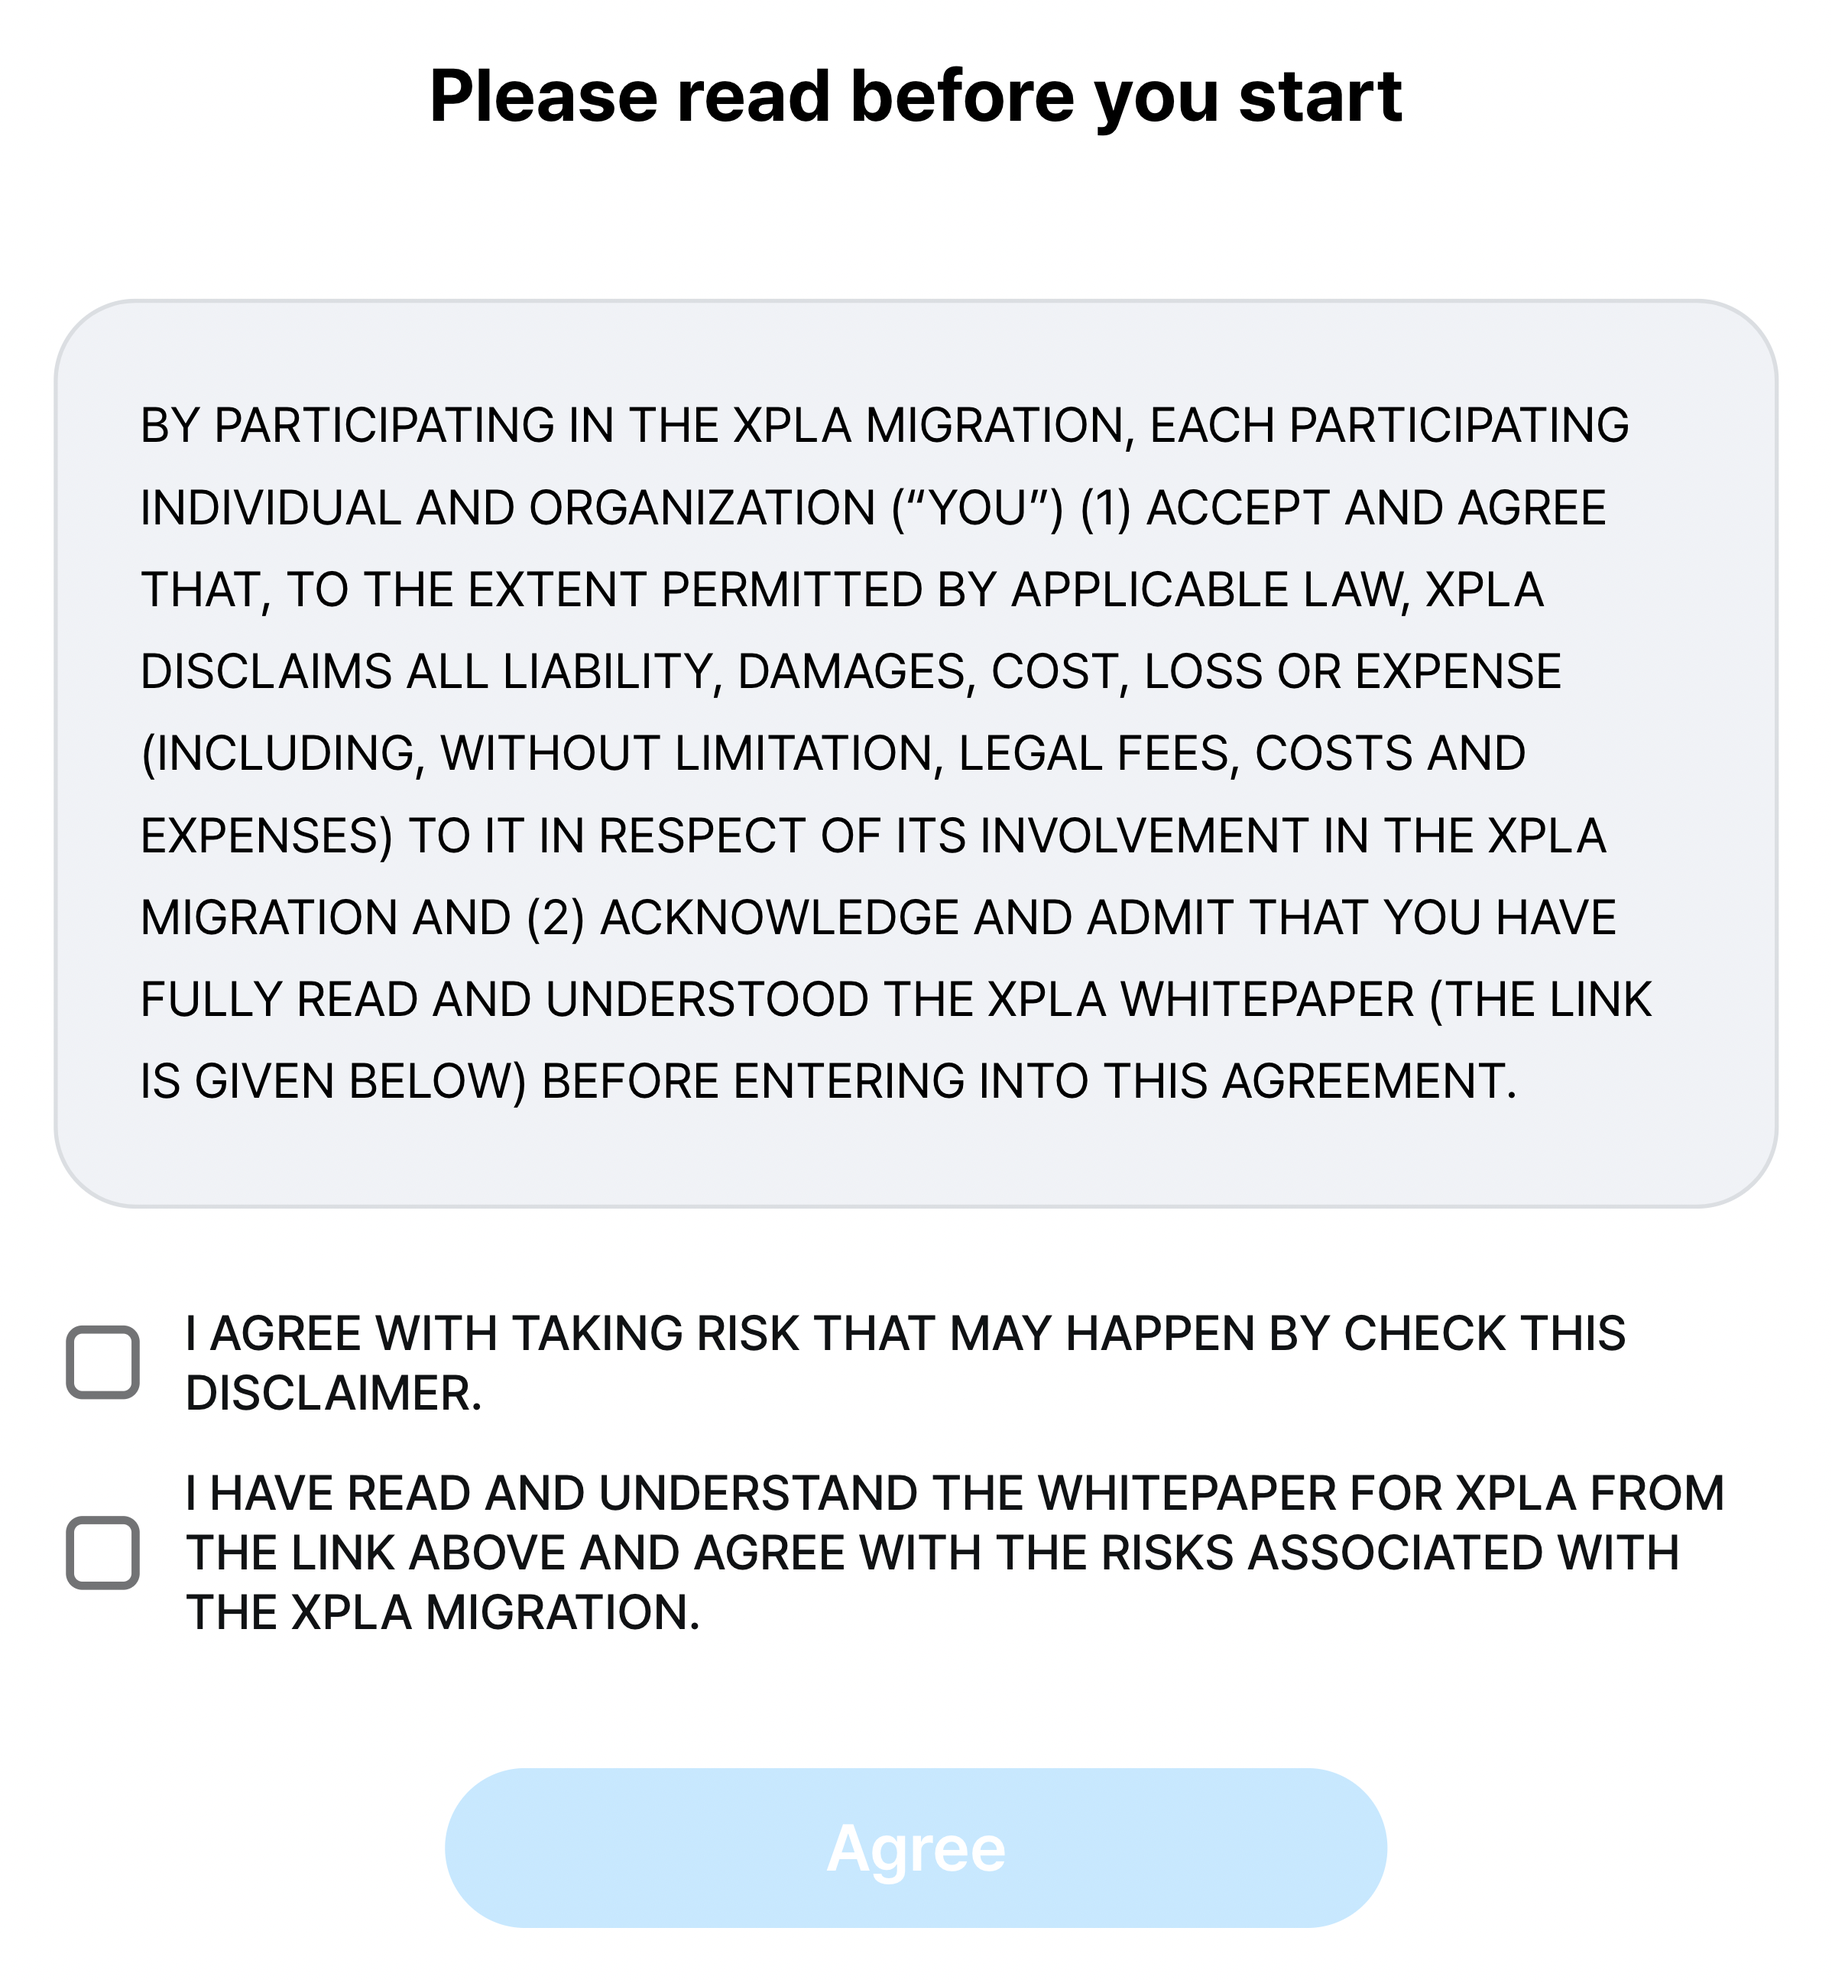
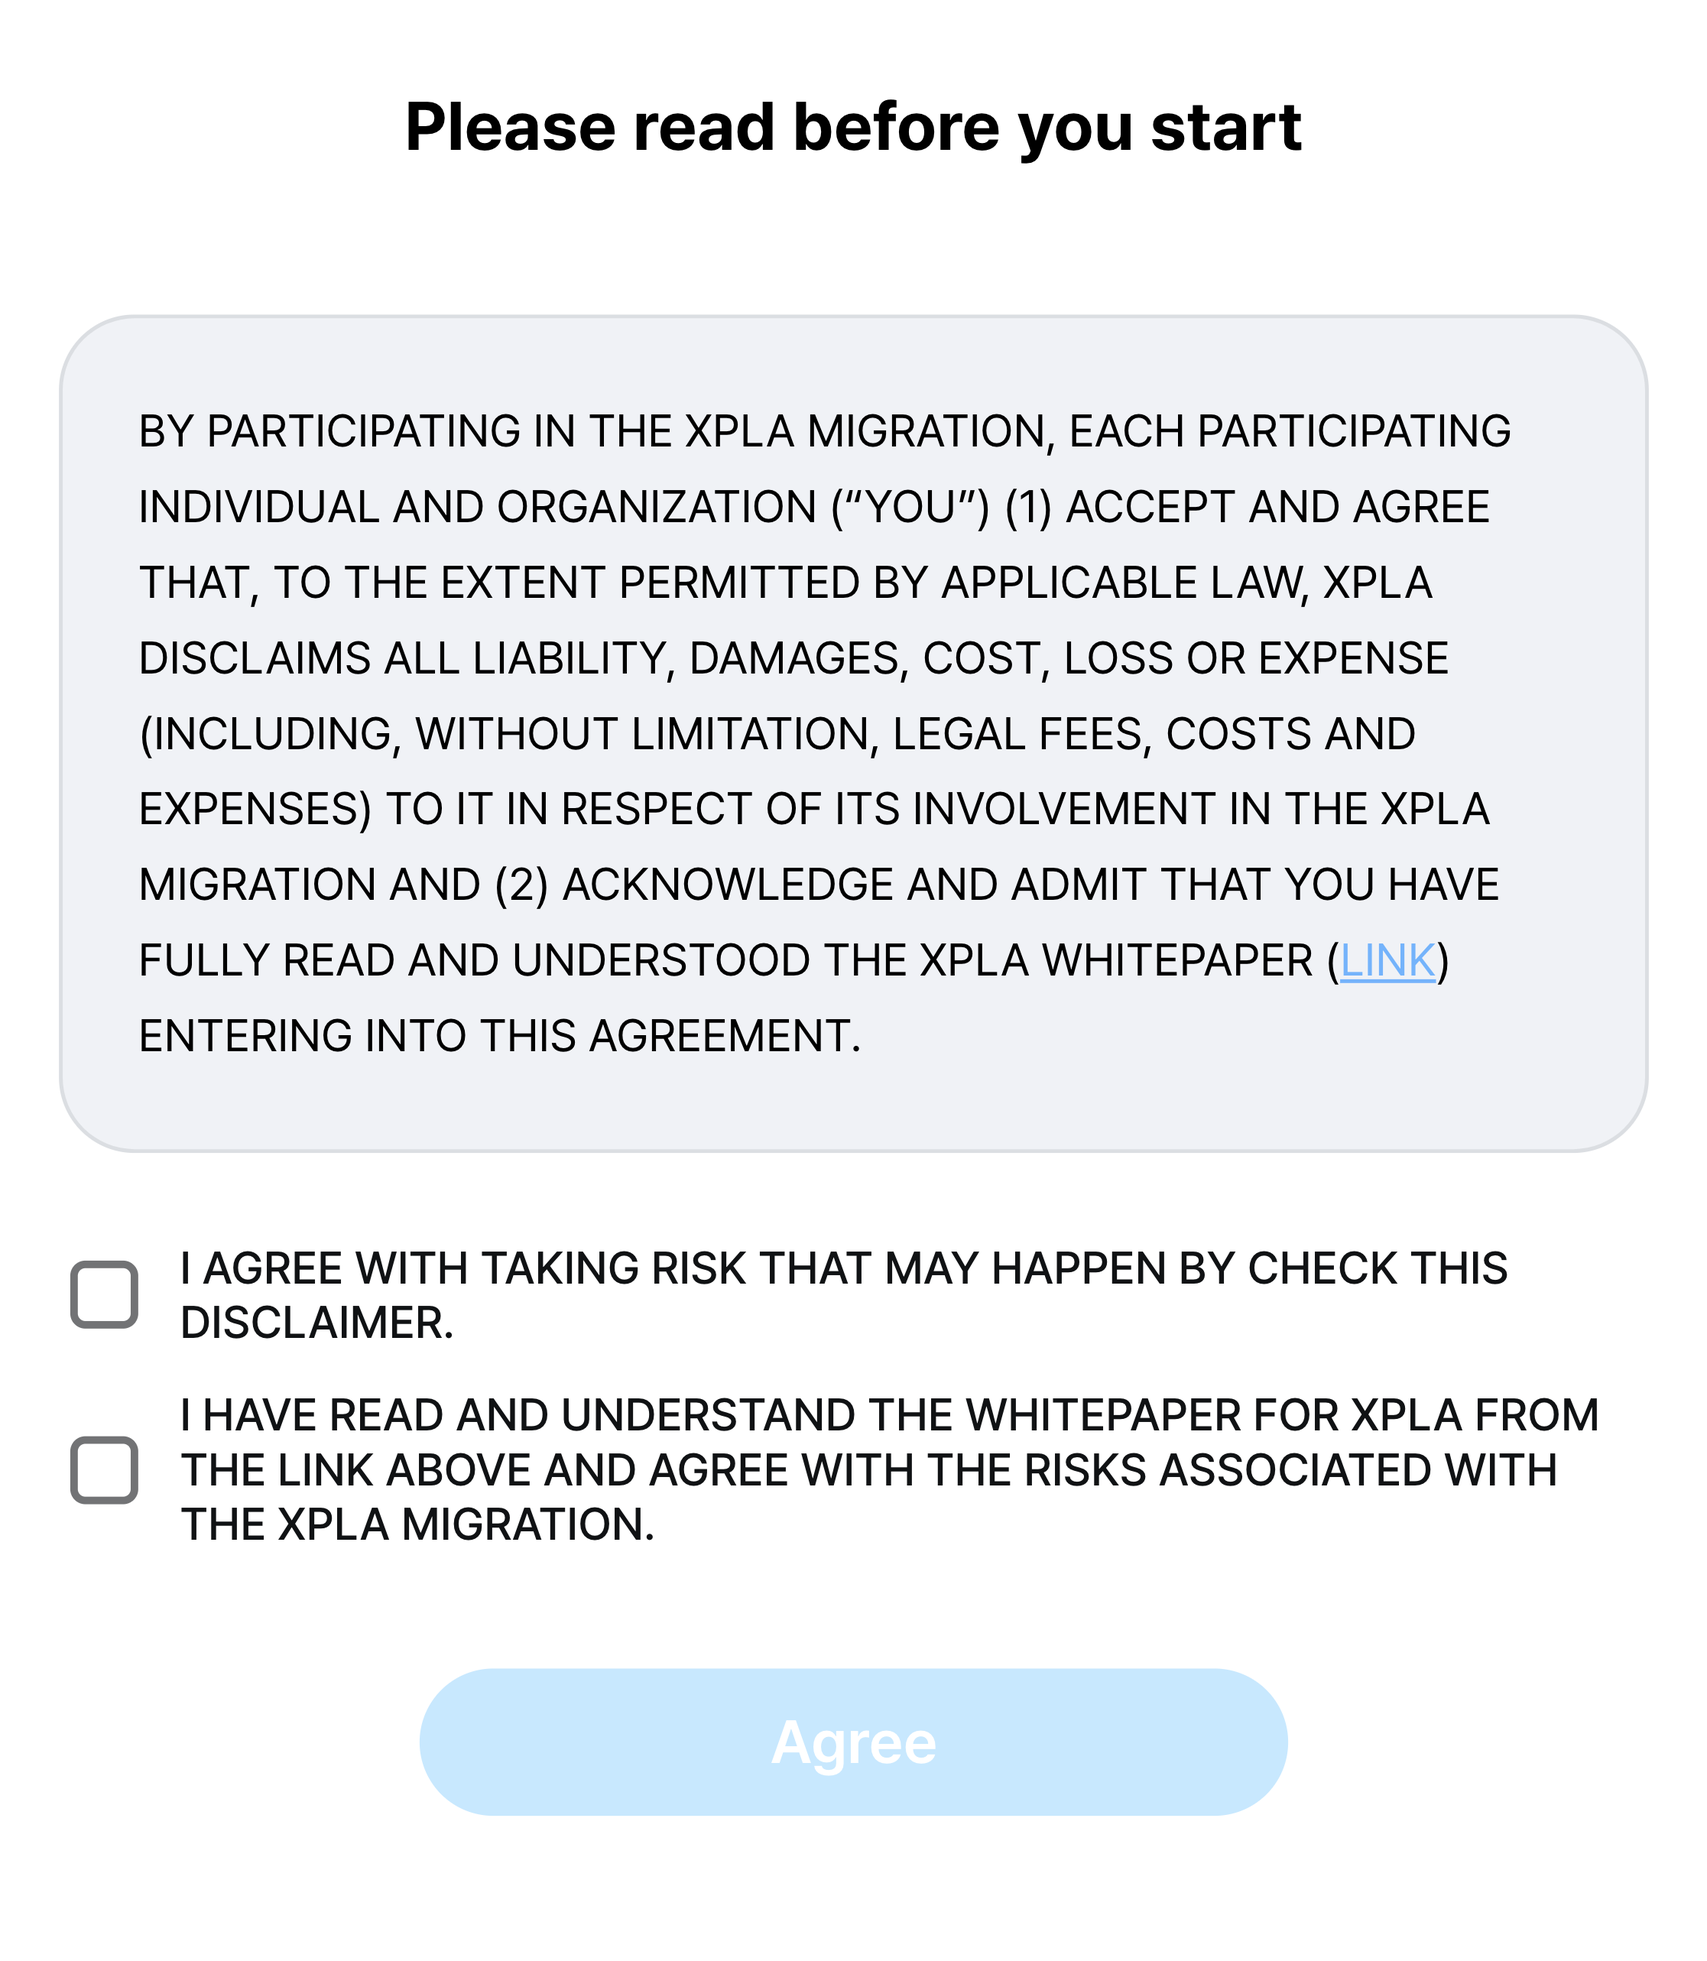
feat: update disclaimer image and description

Changed region(s): [[0.0618, 0.1871, 0.8961, 0.5614], [0.0309, 0.6238, 0.9579, 0.9981], [0.2163, 0.0312, 0.7725, 0.0936]]

diff --git a/content/docs/token-migration-guides/token-migration-procedure.md b/content/docs/token-migration-guides/token-migration-procedure.md
@@ -25,15 +25,9 @@ Please contact us via official [Telegram channel](https://t.me/Official_XPLA) if
 You must first agree to the following disclaimer by checking the box and clicking “Agree” before you proceed with the migration. Please keep in mind that in no event XPLA is liable for any loss that occurred during the migration process, so it is very important that you follow all of the given instructions to safely complete the migration procedure. Please refer to the whitepaper for detailed tokenomics behind XPLA chain.
 {{< /hint >}}
 
-{{< hint info >}}
-**Note**  
-The images below are still in development and are subject to change when it goes live.
-Please note that the date for migration is also subject to change.
-{{< /hint >}}
-
 {{< figure src="/migration/migration-1.png" width="70%" >}}
 
-The following screen will appear after agreeing to the disclaimer and connecting your C2X Station. Check If the shown address under “Terra Classic” is correct, and please copy and paste your XPLA or C2X Vault’s address under “XPLA”.
+The following screen will appear after agreeing to the disclaimer and connecting your C2X Station. Check If the shown address under “Terra Classic” is correct, and please copy and paste your XPLA Vault or C2X Station’s address under “XPLA”.
 
 {{< figure src="/migration/migration-2.png" width="70%" >}}
 
